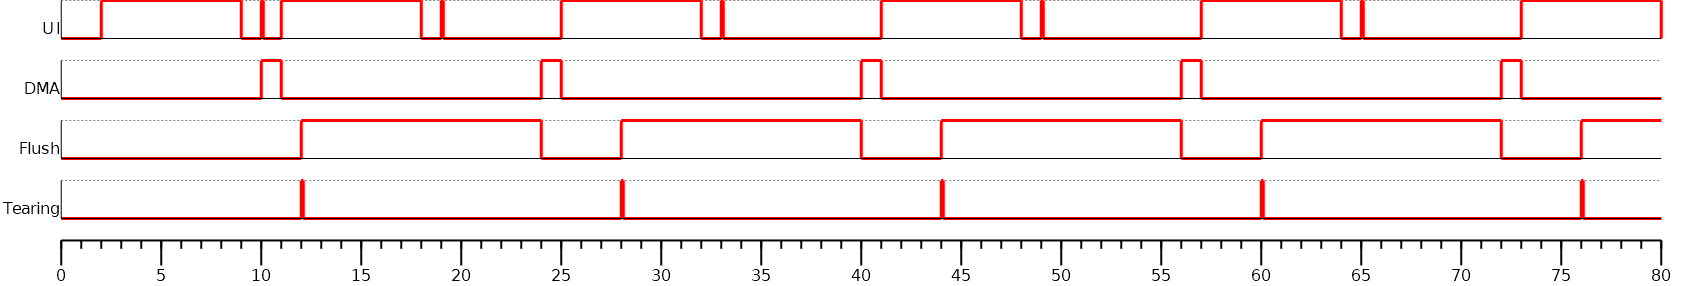
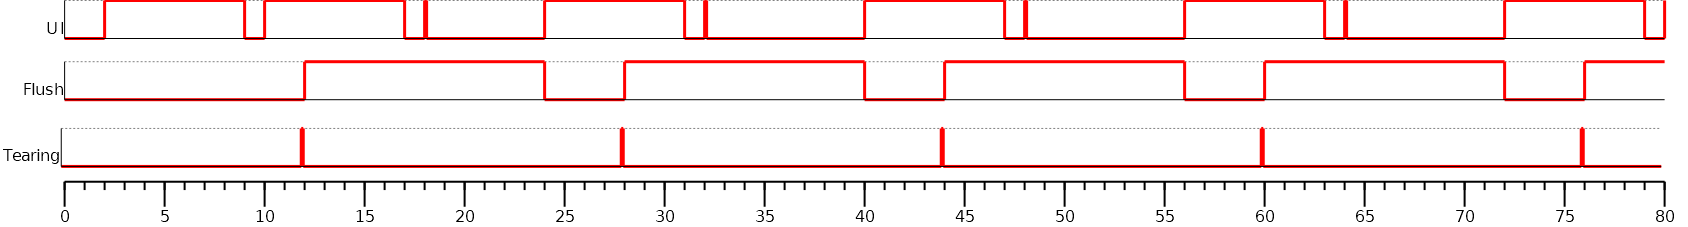
review chapter "display sync"

diff --git a/VEEPortingGuide/uiDisplay.rst b/VEEPortingGuide/uiDisplay.rst
@@ -810,7 +810,7 @@ The Graphics Engine is designed to be synchronized with the display refresh rate
 Captions definition:
 
 * UI: It is the UI task which performs the drawings in the back buffer. At the end of the drawings, the examples consider that the UI thread calls `Display.flush()`_ 1 millisecond after the end of the drawings. At this moment, a flush can start (the call to `Display.flush()`_ is symbolized by a simple `peak` in chronograms).
-* Flush: In :ref:`copy<section_display_single>` mode, it is the time to transfer the content of back buffer to display buffer. In :ref:`double<section_display_double>` or :ref:`triple<section_display_double>` mode, it is the time to swap back and display buffers (often instantaneous) and the time to recopy the content of new display buffer to new back buffer. During this time, the back buffer is `in use` and UI task has to wait the end of copy before starting a new drawing. 
+* Flush: In :ref:`single buffer<section_display_single>` mode, it is the time to transfer the content of the back buffer to the display buffer. In :ref:`double<section_display_double>` or :ref:`triple<section_display_double>` mode, it is the time to swap back and display buffers (the instruction is often instantaneous but the action is often performed at the beginning of the next display refresh rate). During this time, the back buffer is `in use` and UI task has to wait the end of swap before starting a new drawing. 
 * Tearing: The peaks show the tearing signals.
 * Rendering frequency: the frequency between the start of a drawing to the end of flush.
 
@@ -840,19 +840,19 @@ In this example, the times are identical to previous example. The tearing signal
 Additional Buffer 
 -----------------
 
-Some devices take a lot of time to send back buffer content to display buffer. The following examples demonstrate the consequence on rendering frequency. The use of an additional buffer optimizes this frequency, however it uses a lot of RAM memory.
+Some devices take a lot of time to send the back buffer content to the display buffer. The following examples demonstrate the consequence on rendering frequency. The use of an additional buffer optimizes this frequency, however it uses a lot of RAM memory.
 
 In this example, the drawing time is 7ms, the time between the end of drawing and the call to `Display.flush()`_ is 1ms and the flush time is 12ms. So the expected rendering frequency is 7 + 1 + 12 = 20ms (50Hz). Flush starts just after the call to `Display.flush()`_ and the next drawing starts just after the end of flush. Tearing signal is not taken in consideration. The rendering frequency is cadenced on drawing time + flush time.
 
 .. figure:: images/uiDisplaySync05.*
    :width: 100%
 
-As mentioned above, the idea is to use two back buffers. First, UI task is drawing in back buffer ``A``. Just after the call to `Display.flush()`_, the flush can start. At the same moment, the content of back buffer ``A`` is copied in back buffer ``B`` (use a DMA, copy time is 1ms). During the flush time (copy of back buffer ``A`` to display buffer), the back buffer ``B`` can be used by UI task to continue the drawings. When the drawings in back buffer ``B`` are done (and after the call to `Display.flush()`_), the DMA copy of back buffer ``B`` to back buffer ``A`` cannot start: the copy can only start when the flush is fully done because the flush is using the back buffer ``A``. As soon as the flush is done, a new flush (and DMA copy) can start. The rendering frequency is cadenced on flush time, i.e. 12ms (83.3Hz).
+As mentioned above, the idea is to use :ref:`two back buffers<section_display_double_copy>`. First, UI task is drawing in the back buffer ``A``. Just after the call to `Display.flush()`_, the flush can start. During the flush time (copy of the back buffer ``A`` to the display buffer), the back buffer ``B`` can be used by UI task to continue the drawings. When the drawings in the back buffer ``B`` are done (and after the call to `Display.flush()`_), the application cannot start a third frame by drawing into the back buffer ``A`` because the flush is using it. As soon as the flush is done, a new flush (of the back buffer ``B``) can start. The rendering frequency is cadenced on flush time, i.e. 12ms (83.3Hz). 
 
 .. figure:: images/uiDisplaySync06.*
    :width: 100%
 
-The previous example doesn't take in consideration the display tearing signal. With tearing signal and only one back buffer, the frequency is cadenced on two tearing signals (see previous chapter). With two back buffers, the frequency is now cadenced on only one tearing signal, despite the long flush time. 
+The previous example doesn't take in consideration the display tearing signal. With tearing signal and only one back buffer, the frequency is cadenced on two tearing signals (see above). With two back buffers, the frequency is now cadenced on only one tearing signal, despite the long flush time. 
 
 .. figure:: images/uiDisplaySync07.*
    :width: 100%
@@ -866,27 +866,26 @@ The following table resumes the previous examples times:
 * *Drawing time* is the time let to the application to perform its drawings and call `Display.flush()`_. In our examples, the time between the last drawing and the call to `Display.flush()`_ is 1ms.
 * *FPS* and *CPU load* are calculated from examples times.
 * *Max drawing time* is the maximum time let to the application to perform its drawings, without overlapping next display tearing signal (when tearing is enabled). 
-
-+----------+-------------+--------------------+------------------+---------------------+-----------+---------------+------------------------+
-|  Tearing |  Nb buffers |  Drawing time (ms) |  Flush time (ms) |  DMA copy time (ms) |  FPS (Hz) |  CPU load (%) |  Max drawing time (ms) |
-+==========+=============+====================+==================+=====================+===========+===============+========================+
-|     no   |       1     |         7+1        |         6        |                     |    71.4   |      57.1     |                        |
-+----------+-------------+--------------------+------------------+---------------------+-----------+---------------+------------------------+
-|    yes   |       1     |         7+1        |         6        |                     |    62.5   |       50      |            10          |
-+----------+-------------+--------------------+------------------+---------------------+-----------+---------------+------------------------+
-|     no   |       1     |         14+1       |         6        |                     |    47.6   |      71.4     |                        |
-+----------+-------------+--------------------+------------------+---------------------+-----------+---------------+------------------------+
-|    yes   |       1     |         14+1       |         6        |                     |    31.2   |      46.9     |            20          |
-+----------+-------------+--------------------+------------------+---------------------+-----------+---------------+------------------------+
-|     no   |       1     |         7+1        |         12       |                     |     50    |       40      |                        |
-+----------+-------------+--------------------+------------------+---------------------+-----------+---------------+------------------------+
-|    yes   |       1     |         7+1        |         12       |                     |    31.2   |       25      |            8           |
-+----------+-------------+--------------------+------------------+---------------------+-----------+---------------+------------------------+
-|     no   |       2     |         7+1        |         12       |           1         |    83.3   |      66.7     |                        |
-+----------+-------------+--------------------+------------------+---------------------+-----------+---------------+------------------------+
-|    yes   |       2     |         7+1        |         12       |           1         |    62.5   |       50      |            11          |
-+----------+-------------+--------------------+------------------+---------------------+-----------+---------------+------------------------+
-
+  
++----------+-------------+--------------------+------------------+-----------+---------------+------------------------+
+|  Tearing |  Nb buffers |  Drawing time (ms) |  Flush time (ms) |  FPS (Hz) |  CPU load (%) |  Max drawing time (ms) |
++----------+-------------+--------------------+------------------+-----------+---------------+------------------------+
+|     no   |       1     |         7+1        |         6        |    71.4   |      57.1     |                        |
++----------+-------------+--------------------+------------------+-----------+---------------+------------------------+
+|    yes   |       1     |         7+1        |         6        |    62.5   |       50      |            10          |
++----------+-------------+--------------------+------------------+-----------+---------------+------------------------+
+|     no   |       1     |         14+1       |         6        |    47.6   |      71.4     |                        |
++----------+-------------+--------------------+------------------+-----------+---------------+------------------------+
+|    yes   |       1     |         14+1       |         6        |    31.2   |      46.9     |            20          |
++----------+-------------+--------------------+------------------+-----------+---------------+------------------------+
+|     no   |       1     |         7+1        |         12       |     50    |       40      |                        |
++----------+-------------+--------------------+------------------+-----------+---------------+------------------------+
+|    yes   |       1     |         7+1        |         12       |    31.2   |       25      |            8           |
++----------+-------------+--------------------+------------------+-----------+---------------+------------------------+
+|     no   |       2     |         7+1        |         12       |    83.3   |      66.7     |                        |
++----------+-------------+--------------------+------------------+-----------+---------------+------------------------+
+|    yes   |       2     |         7+1        |         12       |    62.5   |       50      |            16          |
++----------+-------------+--------------------+------------------+-----------+---------------+------------------------+
 
 .. _section_display_llapi:
 
